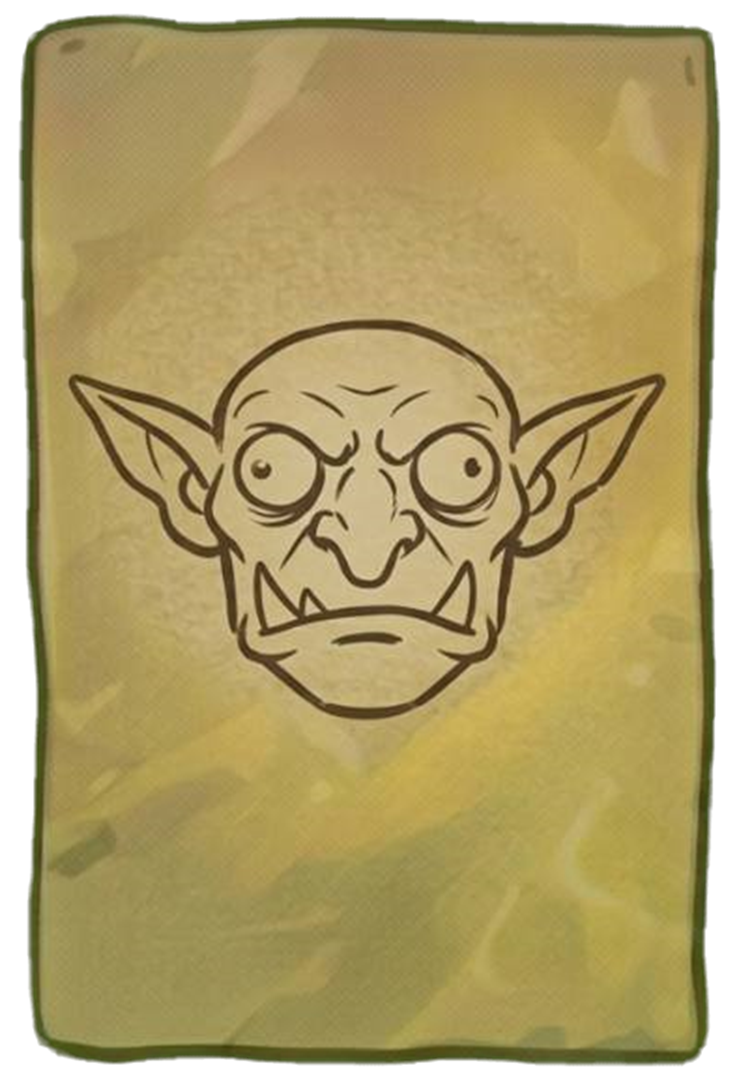
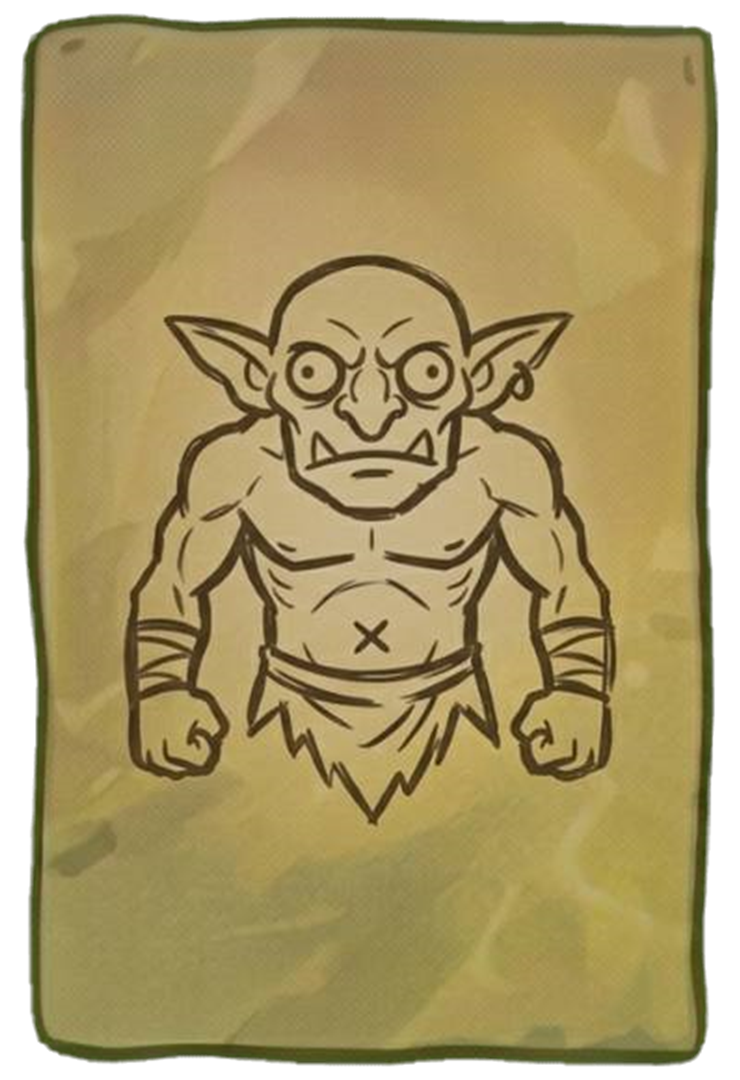
Replace five battlefield cards

diff --git a/service-worker.js b/service-worker.js
@@ -1,4 +1,4 @@
-const CACHE_NAME = "necromancer-expedition-v224";
+const CACHE_NAME = "necromancer-expedition-v225";
 const APP_SHELL = [
   "./",
   "./index.html",
@@ -57,47 +57,51 @@ const APP_SHELL = [
   "./v2-damage-digits.js?v=4",
   "./art/v2-style/ui/healing-digits-sheet.jpg",
   "./v2-unit-size.js?v=5",
-  "./v2-unit-cards.js?v=21",
-  "./art/v2-style/ui/unit-card-corpse-slime.png?v=17",
-  "./art/v2-style/ui/unit-card-minotaur.png?v=17",
-  "./art/v2-style/ui/unit-card-plague-frog.png?v=17",
-  "./art/v2-style/ui/unit-card-ice-lord.png?v=17",
-  "./art/v2-style/ui/unit-card-yeti.png?v=17",
-  "./art/v2-style/ui/unit-card-guardian-seed.png?v=17",
-  "./art/v2-style/ui/unit-card-plague-doctor.png?v=17",
-  "./art/v2-style/ui/unit-card-ghoul.png?v=17",
-  "./art/v2-style/ui/unit-card-goblin-chief.png?v=17",
-  "./art/v2-style/ui/unit-card-goblin-soldier.png?v=17",
-  "./art/v2-style/ui/unit-card-goblin-commoner.png?v=17",
-  "./art/v2-style/ui/unit-card-sea-wolf.png?v=17",
-  "./art/v2-style/ui/unit-card-grave-priest.png?v=17",
-  "./art/v2-style/ui/unit-card-abyss-eye.png?v=17",
-  "./art/v2-style/ui/unit-card-doom-executor.png?v=17",
-  "./art/v2-style/ui/unit-card-death-knight.png?v=17",
-  "./art/v2-style/ui/unit-card-hell-mantis.png?v=17",
-  "./art/v2-style/ui/unit-card-scorpion-knight.png?v=17",
-  "./art/v2-style/ui/unit-card-ancient-treant.png?v=17",
-  "./art/v2-style/ui/unit-card-stone-golem.png?v=17",
-  "./art/v2-style/ui/unit-card-kraken.png?v=17",
-  "./art/v2-style/ui/unit-card-crystal-devourer.png?v=17",
-  "./art/v2-style/ui/unit-card-skeleton-spear.png?v=17",
-  "./art/v2-style/ui/unit-card-skeleton-archer.png?v=17",
-  "./art/v2-style/ui/unit-card-spider-knight.png?v=17",
-  "./art/v2-style/ui/unit-card-raging-treant.png?v=17",
-  "./art/v2-style/ui/unit-card-cerberus.png?v=17",
-  "./art/v2-style/ui/unit-card-mushroom-soldier.png?v=17",
-  "./art/v2-style/ui/unit-card-goblin-rider.png?v=17",
-  "./art/v2-style/ui/unit-card-orc-warrior.png?v=17",
-  "./art/v2-style/ui/unit-card-boulder-ogre.png?v=17",
-  "./art/v2-style/ui/unit-card-bone-golem.png?v=17",
-  "./art/v2-style/ui/unit-card-forest-fairy.png?v=17",
-  "./art/v2-style/ui/unit-card-flesh-golem.png?v=17",
-  "./art/v2-style/ui/unit-card-hydra.png?v=17",
-  "./art/v2-style/ui/unit-card-ice-princess.png?v=17",
-  "./art/v2-style/ui/unit-card-mimic.png?v=17",
-  "./art/v2-style/ui/unit-card-bone-hound.png?v=17",
-  "./art/v2-style/ui/unit-card-soul-reaper.png?v=17",
-  "./art/v2-style/ui/unit-card-mummy-guardian.png?v=17",
+  "./v2-unit-cards.js?v=22",
+  "./art/v2-style/ui/unit-card-corpse-slime.png?v=18",
+  "./art/v2-style/ui/unit-card-minotaur.png?v=18",
+  "./art/v2-style/ui/unit-card-plague-frog.png?v=18",
+  "./art/v2-style/ui/unit-card-ice-lord.png?v=18",
+  "./art/v2-style/ui/unit-card-yeti.png?v=18",
+  "./art/v2-style/ui/unit-card-guardian-seed.png?v=18",
+  "./art/v2-style/ui/unit-card-plague-doctor.png?v=18",
+  "./art/v2-style/ui/unit-card-ghoul.png?v=18",
+  "./art/v2-style/ui/unit-card-goblin-chief.png?v=18",
+  "./art/v2-style/ui/unit-card-goblin-soldier.png?v=18",
+  "./art/v2-style/ui/unit-card-goblin-commoner.png?v=18",
+  "./art/v2-style/ui/unit-card-sea-wolf.png?v=18",
+  "./art/v2-style/ui/unit-card-grave-priest.png?v=18",
+  "./art/v2-style/ui/unit-card-abyss-eye.png?v=18",
+  "./art/v2-style/ui/unit-card-doom-executor.png?v=18",
+  "./art/v2-style/ui/unit-card-death-knight.png?v=18",
+  "./art/v2-style/ui/unit-card-hell-mantis.png?v=18",
+  "./art/v2-style/ui/unit-card-scorpion-knight.png?v=18",
+  "./art/v2-style/ui/unit-card-ancient-treant.png?v=18",
+  "./art/v2-style/ui/unit-card-stone-golem.png?v=18",
+  "./art/v2-style/ui/unit-card-kraken.png?v=18",
+  "./art/v2-style/ui/unit-card-crystal-devourer.png?v=18",
+  "./art/v2-style/ui/unit-card-skeleton-spear.png?v=18",
+  "./art/v2-style/ui/unit-card-skeleton-archer.png?v=18",
+  "./art/v2-style/ui/unit-card-spider-knight.png?v=18",
+  "./art/v2-style/ui/unit-card-raging-treant.png?v=18",
+  "./art/v2-style/ui/unit-card-cerberus.png?v=18",
+  "./art/v2-style/ui/unit-card-mushroom-soldier.png?v=18",
+  "./art/v2-style/ui/unit-card-goblin-rider.png?v=18",
+  "./art/v2-style/ui/unit-card-orc-warrior.png?v=18",
+  "./art/v2-style/ui/unit-card-boulder-ogre.png?v=18",
+  "./art/v2-style/ui/unit-card-bone-golem.png?v=18",
+  "./art/v2-style/ui/unit-card-forest-fairy.png?v=18",
+  "./art/v2-style/ui/unit-card-flesh-golem.png?v=18",
+  "./art/v2-style/ui/unit-card-hydra.png?v=18",
+  "./art/v2-style/ui/unit-card-ice-princess.png?v=18",
+  "./art/v2-style/ui/unit-card-mimic.png?v=18",
+  "./art/v2-style/ui/unit-card-bone-hound.png?v=18",
+  "./art/v2-style/ui/unit-card-soul-reaper.png?v=18",
+  "./art/v2-style/ui/unit-card-mummy-guardian.png?v=18",
+  "./art/v2-style/ui/unit-card-skeleton-cavalry.png?v=18",
+  "./art/v2-style/ui/unit-card-spiderling.png?v=18",
+  "./art/v2-style/ui/unit-card-grave-worm.png?v=18",
+  "./art/v2-style/ui/unit-card-abyss-harpy.png?v=18",
   "./art/v2-style/ui/unit-card-guardian-seed.jpg",
   "./art/v2-style/ui/unit-card-spiderling.jpg",
   "./art/v2-style/ui/status-labels-sheet.jpg",

diff --git a/test_v2_auto_battle.js b/test_v2_auto_battle.js
@@ -130,7 +130,7 @@ for (const slug of ["death-knight", "skeleton-spear", "ghoul", "ancient-treant",
   }
 }
 
-assert(worker.includes('necromancer-expedition-v224'), "Service worker cache version was not advanced.");
+assert(worker.includes('necromancer-expedition-v225'), "Service worker cache version was not advanced.");
 assert(worker.includes("v2-auto-battle-practice.html"), "Auto battle page is not cached.");
 assert(worker.includes("v2-auto-battle-practice.css?v=48"), "Turn dice, lineup picker and illustrated unit info styling is not cached.");
 assert(worker.includes("v2-auto-battle-practice.js?v=57") && worker.includes("v2-legions.js?v=3") && worker.includes("v2-battle-brands.js?v=3"), "Turn-based status battle logic is not cached.");
@@ -138,8 +138,8 @@ assert(source.includes('serviceWorker.register("./service-worker.js", { updateVi
 assert(worker.includes('new Request(event.request, { cache: "reload" })'), "Navigation must bypass stale browser HTTP cache before updating the offline copy.");
 assert(worker.includes("art/v2-style/ui/freeze-status-label.png"), "Persistent freeze label is not cached.");
 assert(worker.includes("v2-damage-digits.js?v=4") && worker.includes("art/v2-style/ui/healing-digits-sheet.jpg"), "Healing digit art is not cached.");
-assert(worker.includes("v2-unit-cards.js?v=21"), "Summoned-unit card mapping is not cached.");
-for (const slug of ["goblin-commoner","sea-wolf","grave-priest","abyss-eye","doom-executor","death-knight","hell-mantis","scorpion-knight","ancient-treant","stone-golem","kraken","crystal-devourer","skeleton-spear","skeleton-archer","spider-knight","raging-treant","cerberus","mushroom-soldier","goblin-rider","orc-warrior","boulder-ogre","bone-golem","forest-fairy","flesh-golem","hydra","ice-princess","mimic","bone-hound","soul-reaper","mummy-guardian"]) assert(worker.includes(`art/v2-style/ui/unit-card-${slug}.png?v=17`), `Replacement ${slug} card art is not cached.`);
+assert(worker.includes("v2-unit-cards.js?v=22"), "Summoned-unit card mapping is not cached.");
+for (const slug of ["goblin-commoner","sea-wolf","grave-priest","abyss-eye","doom-executor","death-knight","hell-mantis","scorpion-knight","ancient-treant","stone-golem","kraken","crystal-devourer","skeleton-spear","skeleton-archer","spider-knight","raging-treant","cerberus","mushroom-soldier","goblin-rider","orc-warrior","boulder-ogre","bone-golem","forest-fairy","flesh-golem","hydra","ice-princess","mimic","bone-hound","soul-reaper","mummy-guardian","skeleton-cavalry","spiderling","grave-worm","abyss-harpy"]) assert(worker.includes(`art/v2-style/ui/unit-card-${slug}.png?v=18`), `Replacement ${slug} card art is not cached.`);
 for (const slug of ["guardian-seed","spiderling"]) assert(worker.includes(`art/v2-style/ui/unit-card-${slug}.jpg`), `Summoned ${slug} card art is not cached.`);
 assert(worker.includes("art/v2-style/ui/legion-slot-frame.png"), "The cropped one-cell legion frame is not cached.");
 assert(fs.existsSync(path.join(root, "art/v2-style/ui/corpse-selection-arrow.png")) && worker.includes("art/v2-style/ui/corpse-selection-arrow.png"), "The corpse-selection arrow asset must be stored and cached.");

diff --git a/v2-unit-cards.js b/v2-unit-cards.js
@@ -1,7 +1,7 @@
 (function(root) {
   const ART = ['corpse-slime','minotaur','ice-lord','plague-frog','orc-warrior','plague-doctor','ghoul','goblin-chief','goblin-soldier','sea-wolf','grave-priest','abyss-eye','doom-executor','death-knight','hell-mantis','scorpion-knight','ancient-treant','stone-golem','kraken','crystal-devourer','skeleton-spear','skeleton-archer','skeleton-cavalry','spider-knight','raging-treant','cerberus','mushroom-soldier','goblin-rider','abyss-harpy','boulder-ogre','bone-golem','forest-fairy','flesh-golem','hydra','ice-princess'];
   ART.push('mimic','bone-hound','soul-reaper','mummy-guardian','siren','grave-worm','yeti','goblin-commoner','guardian-seed','spiderling');
-  const CUTOUT_ART = new Set(['corpse-slime','minotaur','plague-frog','ice-lord','yeti','guardian-seed','plague-doctor','ghoul','goblin-chief','goblin-soldier','goblin-commoner','sea-wolf','grave-priest','abyss-eye','doom-executor','death-knight','hell-mantis','scorpion-knight','ancient-treant','stone-golem','kraken','crystal-devourer','skeleton-spear','skeleton-archer','spider-knight','raging-treant','cerberus','mushroom-soldier','goblin-rider','orc-warrior','boulder-ogre','bone-golem','forest-fairy','flesh-golem','hydra','ice-princess','mimic','bone-hound','soul-reaper','mummy-guardian']);
+  const CUTOUT_ART = new Set(['corpse-slime','minotaur','plague-frog','ice-lord','yeti','guardian-seed','plague-doctor','ghoul','goblin-chief','goblin-soldier','goblin-commoner','sea-wolf','grave-priest','abyss-eye','doom-executor','death-knight','hell-mantis','scorpion-knight','ancient-treant','stone-golem','kraken','crystal-devourer','skeleton-spear','skeleton-archer','spider-knight','raging-treant','cerberus','mushroom-soldier','goblin-rider','orc-warrior','boulder-ogre','bone-golem','forest-fairy','flesh-golem','hydra','ice-princess','mimic','bone-hound','soul-reaper','mummy-guardian','skeleton-cavalry','spiderling','grave-worm','abyss-harpy']);
   let selected;
   let phase = 'locked', currentUnits = [], currentDock;
   function setPhase(value) {
@@ -42,7 +42,7 @@
           art.classList.add('has-card-art');
           if (CUTOUT_ART.has(unit.slug)) {
             art.classList.add('has-cutout-card');
-            art.style.backgroundImage = 'url("art/v2-style/ui/unit-card-' + unit.slug + '.png?v=17")';
+            art.style.backgroundImage = 'url("art/v2-style/ui/unit-card-' + unit.slug + '.png?v=18")';
           } else {
             // Crop the supplied 1280x575 photo to the card only, without changing the original.
             art.style.backgroundImage = 'url("art/v2-style/ui/unit-card-' + unit.slug + '.jpg?v=9")';

diff --git a/test_v2_unit_cards.js b/test_v2_unit_cards.js
@@ -2,7 +2,7 @@ const assert = require('assert');
 function node() { return { children:[],dataset:{},style:{},classList:{add(){},toggle(){}},setAttribute(){},append(...v){this.children.push(...v)},replaceChildren(){this.children=[]},addEventListener(t,f){this[t]=f},querySelector(){return this.children[0]} }; }
 global.document = {createElement:node};
 const api = require('./v2-unit-cards');
-for (const slug of ['corpse-slime','minotaur','plague-frog','ice-lord','yeti','goblin-commoner','sea-wolf','grave-priest','abyss-eye','doom-executor','death-knight','hell-mantis','scorpion-knight','ancient-treant','stone-golem','kraken','crystal-devourer','skeleton-spear','skeleton-archer','spider-knight','raging-treant','cerberus','mushroom-soldier','goblin-rider','orc-warrior','boulder-ogre','bone-golem','forest-fairy','flesh-golem','hydra','ice-princess','mimic','bone-hound','soul-reaper','mummy-guardian']) {
+for (const slug of ['corpse-slime','minotaur','plague-frog','ice-lord','yeti','goblin-commoner','sea-wolf','grave-priest','abyss-eye','doom-executor','death-knight','hell-mantis','scorpion-knight','ancient-treant','stone-golem','kraken','crystal-devourer','skeleton-spear','skeleton-archer','spider-knight','raging-treant','cerberus','mushroom-soldier','goblin-rider','orc-warrior','boulder-ogre','bone-golem','forest-fairy','flesh-golem','hydra','ice-princess','mimic','bone-hound','soul-reaper','mummy-guardian','skeleton-cavalry','spiderling','grave-worm','abyss-harpy']) {
   assert(api.ART.includes(slug));
   assert(api.CUTOUT_ART.has(slug));
   const cutout = require('path').join(__dirname, 'art/v2-style/ui/unit-card-' + slug + '.png');
@@ -61,7 +61,7 @@ for (const slug of ['goblin-commoner','guardian-seed','spiderling']) {
 units[0]={...units[0],slug:'guardian-seed'};
 api.sync(field,units,u=>selected=u);
 assert.equal(field.children.length,1);
-assert(units[0].infoCard.children[0].style.backgroundImage.includes('unit-card-guardian-seed.png?v=17'));
+assert(units[0].infoCard.children[0].style.backgroundImage.includes('unit-card-guardian-seed.png?v=18'));
 assert.equal(units[0].infoCard.children[0].children.length,0);
 units[0].infoCard.click(); assert.equal(selected,units[0]);
 api.setPhase('acting'); assert(units.every(u=>u.infoCard.disabled));

diff --git a/test_v2_motion.js b/test_v2_motion.js
@@ -445,7 +445,7 @@ assert(fs.existsSync(path.join(root, "art/v2-style/animation-sheets/green-raw/cr
 assert(fs.existsSync(path.join(root, "art/v2-style/animation-sheets/green-raw/grave-worm-animation-sheet.jpg")), "New raw Grave Worm sheet is missing.");
 assert(fs.existsSync(path.join(root, "art/v2-style/animation-sheets/green-raw/siren-animation-sheet.jpg")), "New raw Siren sheet is missing.");
 assert(fs.existsSync(path.join(root, "art/v2-style/animation-sheets/green-raw/mimic-animation-sheet.jpg")), "New raw Mimic sheet is missing.");
-assert(serviceWorker.includes("necromancer-expedition-v224"), "Service worker cache version was not bumped.");
+assert(serviceWorker.includes("necromancer-expedition-v225"), "Service worker cache version was not bumped.");
 for (const slug of ['ancient-treant','skeleton-spear','stone-golem','goblin-rider']) {
   for (const [motion,count] of Object.entries({attack:5,hit:4,death:slug === 'ancient-treant' ? 6 : 5})) {
     for(let i=1;i<=count;i++) {

diff --git a/v2-auto-battle-practice.html b/v2-auto-battle-practice.html
@@ -147,7 +147,7 @@
   <script src="v2-combat-effects.js?v=9"></script>
   <script src="v2-damage-digits.js?v=4"></script>
   <script src="v2-unit-size.js?v=5"></script>
-  <script src="v2-unit-cards.js?v=21"></script>
+  <script src="v2-unit-cards.js?v=22"></script>
   <script src="v2-auto-battle-practice.js?v=57"></script>
 </body>
 </html>
